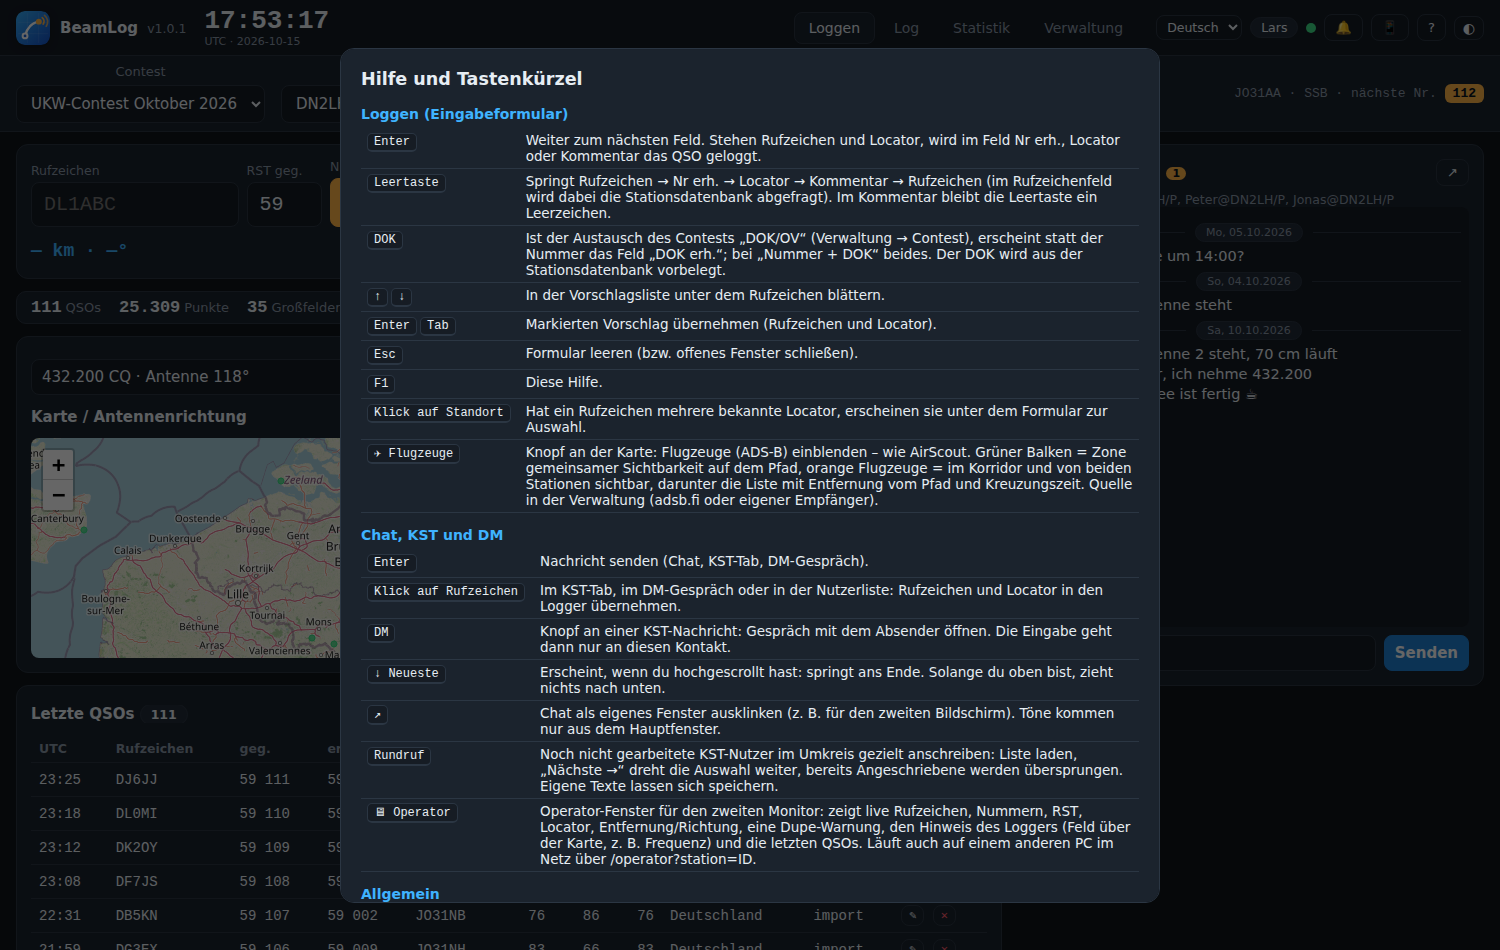
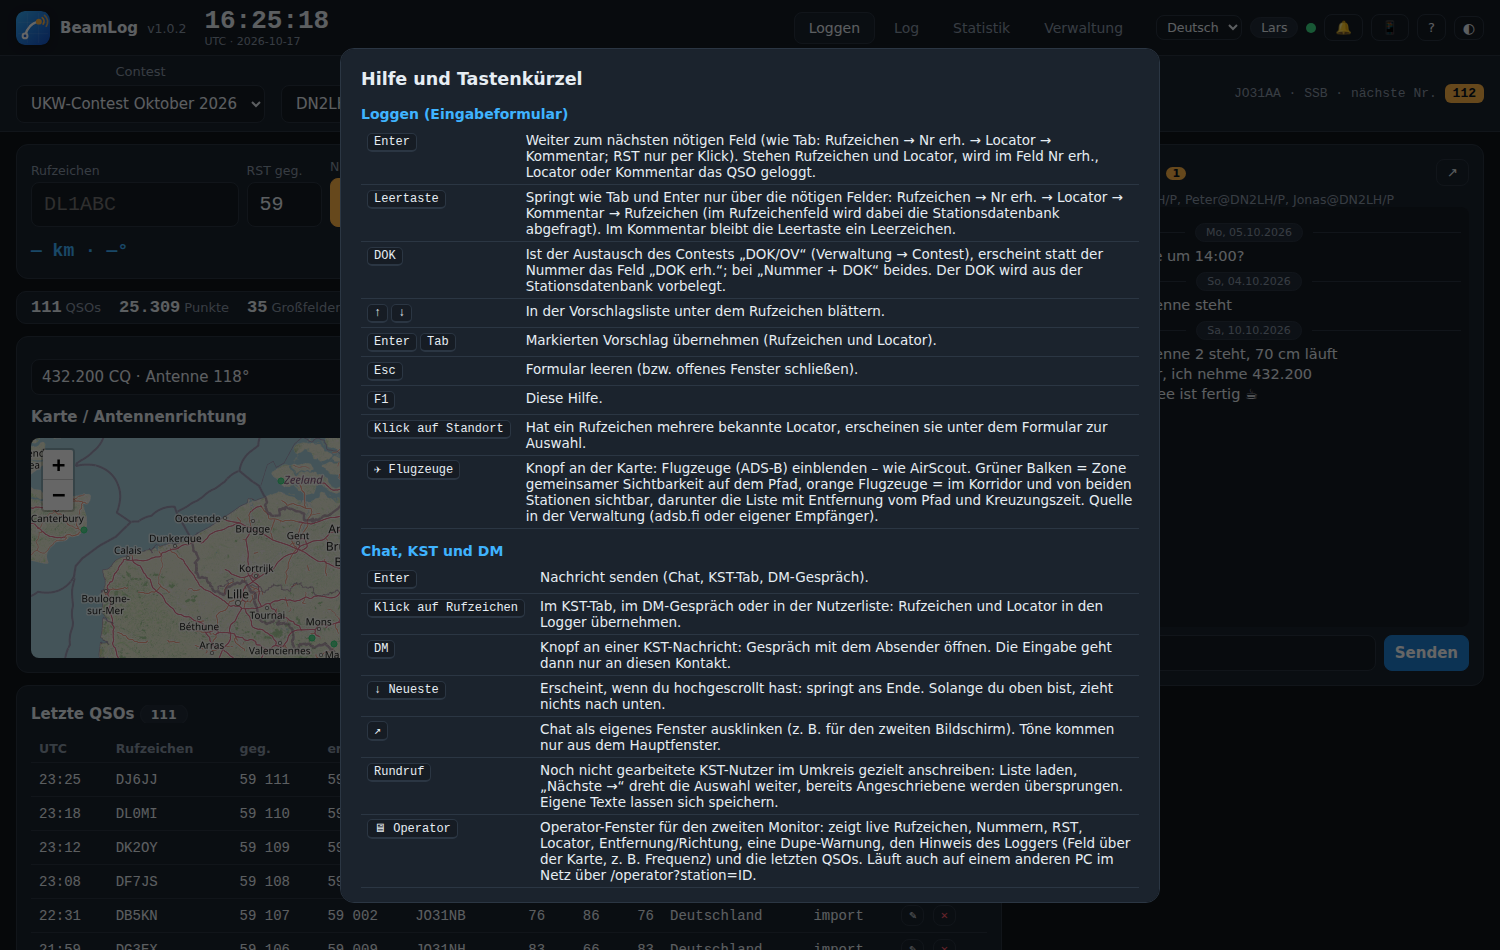
Schnellere Eingabe: Tab, Enter und Leertaste springen nur über die nötigen Felder
- Alle drei Tasten gehen denselben Weg: Rufzeichen → Nr erh. (→ DOK erh.) → Locator → Kommentar
- RST geg. und RST erh. (mit 59 vorbelegt) werden übersprungen und lassen sich per Mausklick ändern;
  Enter aus einem RST-Feld springt zu Nr erh. bzw. DOK erh.
- Enter mit leerem Rufzeichen läuft nicht mehr durch alle Felder; Umschalt+Tab geht den Weg zurück
- Gilt für alle Austausch-Arten (Nummer, DOK, Nummer + DOK)
- Hilfe (F1), README und Wiki (Loggen, Tastenkürzel) angepasst, Hilfe-Screenshot neu

diff --git a/contestlogger/static/app.js b/contestlogger/static/app.js
@@ -638,8 +638,12 @@
     }
   });
 
+  // Enter, Leertaste und Tab gehen nur über die nötigen Felder: Rufzeichen -> Nr erh. (-> DOK) -> Locator -> Kommentar;
+  // RST geg./erh. sind mit 59 vorbelegt und nur per Klick erreichbar (tabindex -1 im HTML).
+  const steps = () => [F.call, F.nr, F.dok, F.loc, F.cmt].filter((f) => !f.parentElement.classList.contains("hidden"));
+  function nextStep(inp) { const s = steps(); const i = s.indexOf(inp); return i < 0 ? firstRcvd() : s[i + 1] || F.call; }
   // Enter springt weiter; wenn Call + Locator vorhanden und man im letzten Pflichtfeld ist, wird geloggt.
-  order.forEach((inp, i) => {
+  order.forEach((inp) => {
     inp.addEventListener("keydown", (e) => {
       if (inp === F.call && !$("#suggest").classList.contains("hidden")) {
         if (e.key === "ArrowDown") { e.preventDefault(); moveSuggest(1); return; }
@@ -651,16 +655,13 @@
         const ready = F.call.value.trim().length >= 3 && F.loc.value.trim().length >= 4;
         const dokOk = !hasDok() || F.dok.value.trim() || inp === F.dok;
         if (ready && dokOk && (inp === F.loc || inp === F.cmt || inp === F.nr || inp === F.dok)) submitQso();
-        else if (inp === F.call && ready) firstRcvd().focus();
-        else { let n = order[i + 1]; while (n && n.parentElement.classList.contains("hidden")) n = order[order.indexOf(n) + 1]; (n || F.call).focus(); }
+        else nextStep(inp).focus();
       }
-      // Leertaste springt: Rufzeichen -> Nr erhalten (-> DOK) -> Locator -> Kommentar -> Rufzeichen
+      // Leertaste springt wie Enter und Tab nur über die nötigen Felder (im Kommentar bleibt sie ein Leerzeichen)
       if (e.key === " " && inp !== F.cmt) {
         e.preventDefault();
         if (inp === F.call) lookupCall();
-        const afterNr = hasDok() ? F.dok : F.loc;
-        const hop = { [F.call.id]: firstRcvd(), [F.rs.id]: firstRcvd(), [F.rr.id]: firstRcvd(), [F.nr.id]: afterNr, [F.dok.id]: F.loc, [F.loc.id]: F.cmt };
-        (hop[inp.id] || F.call).focus();
+        nextStep(inp).focus();
       }
     });
   });
@@ -897,8 +898,8 @@
     const P = (text) => el("p", { class: "muted small" }, text);
     const box = modal(el("div", { class: "help" }, el("h3", {}, t("Hilfe und Tastenkürzel")),
       ...H(t("Loggen (Eingabeformular)"),
-        K(["Enter"], t("Weiter zum nächsten Feld. Stehen Rufzeichen und Locator, wird im Feld Nr erh., Locator oder Kommentar das QSO geloggt.")),
-        K(["Leertaste"], t("Springt Rufzeichen → Nr erh. → Locator → Kommentar → Rufzeichen (im Rufzeichenfeld wird dabei die Stationsdatenbank abgefragt). Im Kommentar bleibt die Leertaste ein Leerzeichen.")),
+        K(["Enter"], t("Weiter zum nächsten nötigen Feld (wie Tab: Rufzeichen → Nr erh. → Locator → Kommentar; RST nur per Klick). Stehen Rufzeichen und Locator, wird im Feld Nr erh., Locator oder Kommentar das QSO geloggt.")),
+        K(["Leertaste"], t("Springt wie Tab und Enter nur über die nötigen Felder: Rufzeichen → Nr erh. → Locator → Kommentar → Rufzeichen (im Rufzeichenfeld wird dabei die Stationsdatenbank abgefragt). Im Kommentar bleibt die Leertaste ein Leerzeichen.")),
         K(["DOK"], t("Ist der Austausch des Contests „DOK/OV“ (Verwaltung → Contest), erscheint statt der Nummer das Feld „DOK erh.“; bei „Nummer + DOK“ beides. Der DOK wird aus der Stationsdatenbank vorbelegt.")),
         K(["↑", "↓"], t("In der Vorschlagsliste unter dem Rufzeichen blättern.")),
         K(["Enter", "Tab"], t("Markierten Vorschlag übernehmen (Rufzeichen und Locator).")),

diff --git a/contestlogger/static/index.html b/contestlogger/static/index.html
@@ -72,9 +72,9 @@
               <input id="f-call" placeholder="DL1ABC" spellcheck="false" required>
               <div id="suggest" class="suggest hidden"></div>
             </label>
-            <label class="f-rsts">RST geg.<input id="f-rst-sent" value="59"></label>
+            <label class="f-rsts" title="Mit 59 vorbelegt – Tab, Enter und Leertaste überspringen das Feld, ändern per Klick">RST geg.<input id="f-rst-sent" value="59" tabindex="-1"></label>
             <label class="f-nrs">Nr geg.<input id="f-nr-sent" readonly tabindex="-1"></label>
-            <label class="f-rstr">RST erh.<input id="f-rst-rcvd" value="59"></label>
+            <label class="f-rstr" title="Mit 59 vorbelegt – Tab, Enter und Leertaste überspringen das Feld, ändern per Klick">RST erh.<input id="f-rst-rcvd" value="59" tabindex="-1"></label>
             <label class="f-nrr">Nr erh.<input id="f-nr-rcvd" placeholder="001" inputmode="numeric"></label>
             <label class="f-dok hidden" title="DOK / Ortsverband der Gegenstation (Austausch dieses Contests)">DOK erh.<input id="f-dok" placeholder="G01" spellcheck="false" maxlength="8"></label>
             <label class="f-loc">Locator<input id="f-loc" placeholder="JO31AA" spellcheck="false" maxlength="8"></label>

diff --git a/docs/wiki/Loggen.md b/docs/wiki/Loggen.md
@@ -7,7 +7,7 @@
 | Feld | Hinweise |
 |---|---|
 | **Rufzeichen** | Wird automatisch in Großbuchstaben gesetzt. Beim Tippen erscheinen Vorschläge aus der Stationsdatenbank und allen eigenen Logs mit Locator, Entfernung, Richtung und „schon gearbeitet“-Hinweis. |
-| **RST geg. / RST erh.** | Vorbelegt mit 59 (bzw. 599 bei CW). |
+| **RST geg. / RST erh.** | Vorbelegt mit 59 (bzw. 599 bei CW). Tab, Enter und Leertaste überspringen die Felder – ändern per Mausklick. |
 | **Nr geg.** | Laufende Nummer, automatisch hochzählend, orange hervorgehoben. Rücksetzen über den Knopf „Nr. zurücksetzen“ oder in der Verwaltung. |
 | **Nr erh.** | Empfangene Nummer. |
 | **DOK erh.** | DOK/Ortsverband der Gegenstation – nur bei Contests mit Austausch „DOK/OV“ oder „Nummer + DOK“ (siehe unten). |
@@ -28,13 +28,17 @@ Was geloggt werden muss, legt der Contest fest (Verwaltung → Contest → **Aus
 
 ![Loggen mit DOK](img/loggen-dok.png)
 
-Der DOK wird aus der [Stationsdatenbank](Stationsdatenbank.md) vorbelegt (grün umrandet), sobald das Rufzeichen bekannt ist, und mit jedem QSO dort gelernt. Die Leertaste springt Rufzeichen → Nr erh. → DOK erh. → Locator; fehlt die Nummer im Contest, direkt zum DOK. Der eigene DOK steht bei der Station in den EDI-Angaben („Eigener DOK/OV bzw. Austausch“) und landet im EDI-Kopf als `PExch`; der empfangene DOK steht in der EDI-QSO-Zeile (Spalte „Exchange received“), im ADIF (`DARC_DOK`, `SRX_STRING`) und in der CSV. Die Statistikzeile zählt die verschiedenen DOKs, die Log-Prüfung warnt bei fehlendem DOK. Das Operator-Fenster zeigt das DOK-Feld statt bzw. neben den Nummern.
+Der DOK wird aus der [Stationsdatenbank](Stationsdatenbank.md) vorbelegt (grün umrandet), sobald das Rufzeichen bekannt ist, und mit jedem QSO dort gelernt. Tab, Enter und Leertaste springen Rufzeichen → Nr erh. → DOK erh. → Locator; fehlt die Nummer im Contest, direkt zum DOK. Der eigene DOK steht bei der Station in den EDI-Angaben („Eigener DOK/OV bzw. Austausch“) und landet im EDI-Kopf als `PExch`; der empfangene DOK steht in der EDI-QSO-Zeile (Spalte „Exchange received“), im ADIF (`DARC_DOK`, `SRX_STRING`) und in der CSV. Die Statistikzeile zählt die verschiedenen DOKs, die Log-Prüfung warnt bei fehlendem DOK. Das Operator-Fenster zeigt das DOK-Feld statt bzw. neben den Nummern.
 
 ## Ablauf mit der Tastatur
 
-- **Rufzeichen tippen → Leertaste** springt zu *Nr erh.*, gleichzeitig wird die Stationsdatenbank (und ggf. HamQTH/QRZ) abgefragt und der Locator vorbelegt.
+Tab, Enter und Leertaste gehen alle denselben kurzen Weg über die nötigen Felder: **Rufzeichen → Nr erh. (→ DOK erh.)
+→ Locator → Kommentar**. Die mit 59 vorbelegten RST-Felder werden übersprungen; wer einen anderen Rapport braucht,
+klickt hinein (Umschalt+Tab geht zurück).
+
+- **Rufzeichen tippen → Leertaste** (oder Tab/Enter) springt zu *Nr erh.*; mit der Leertaste wird gleichzeitig die Stationsdatenbank (und ggf. HamQTH/QRZ) abgefragt und der Locator vorbelegt.
 - **Nr erh. → Leertaste** springt zum Locator, **Locator → Leertaste** zum Kommentar.
-- **Enter** loggt, sobald Rufzeichen und Locator stehen (in *Nr erh.*, *Locator* oder *Kommentar*).
+- **Enter** loggt, sobald Rufzeichen und Locator stehen (in *Nr erh.*, *DOK erh.*, *Locator* oder *Kommentar*); sonst geht es ins nächste nötige Feld.
 - **Esc** leert das Formular.
 - Pfeiltasten blättern in den Vorschlägen, Enter/Tab übernimmt den markierten Vorschlag.
 

diff --git a/README.md b/README.md
@@ -41,7 +41,7 @@ Ein kleiner Server (portable Datei, kein Python nötig) ist der zentrale Speiche
 
 | | |
 |---|---|
-| **Loggen** | Rufzeichen, RST, Nummern und/oder DOK (Austausch je Contest wählbar, z. B. Köln-Aachen-Contest), Locator, Kommentar; Vorschläge aus der Stationsdatenbank und allen eigenen Logs; Locator, km und Grad automatisch; Dupe-Warnung; Plausibilitätsprüfung Rufzeichen ↔ Locator; Bearbeiten und Löschen; Zeit in UTC |
+| **Loggen** | Schnelle Eingabe nur mit der Tastatur (Tab, Enter und Leertaste springen nur über die nötigen Felder); Rufzeichen, RST, Nummern und/oder DOK (Austausch je Contest wählbar, z. B. Köln-Aachen-Contest), Locator, Kommentar; Vorschläge aus der Stationsdatenbank und allen eigenen Logs; Locator, km und Grad automatisch; Dupe-Warnung; Plausibilitätsprüfung Rufzeichen ↔ Locator; Bearbeiten und Löschen; Zeit in UTC |
 | **Stationen und Contests** | Globale Stationen mit Stammdaten (Passwort, KST-Zugang, EDI-Angaben), Contest anlegen mit Stationsauswahl, Operatoren schalten per Passwort frei |
 | **Chat, ON4KST, DM** | Team-Chat je Contest (wer ist online), KST-Chat je Station (Nutzerliste mit km und Richtung, Textbausteine, „an mich“-Markierung); ein Klick auf eine Station übernimmt Rufzeichen und Locator in den Logger; Direktnachrichten wie ein Messenger, Rundruf an noch nicht gearbeitete Stationen im Umkreis |
 | **Operator-Fenster** | Zweiter Monitor: live Rufzeichen, Nummern, RST, Locator, Entfernung/Richtung, Dupe-Warnung, Hinweis vom Logger, Statistik, Karte, letzte QSOs |

diff --git a/docs/wiki/Tastenkuerzel.md b/docs/wiki/Tastenkuerzel.md
@@ -8,8 +8,9 @@ Im Programm jederzeit mit **F1** oder dem „?“ im Kopf abrufbar.
 
 | Taste | Wirkung |
 |---|---|
-| **Enter** | Weiter zum nächsten Feld. Stehen Rufzeichen und Locator, wird in *Nr erh.*, *Locator* oder *Kommentar* das QSO geloggt. |
-| **Leertaste** | Springt Rufzeichen → Nr erh. → Locator → Kommentar → Rufzeichen. Im Rufzeichenfeld wird dabei die Stationsdatenbank abgefragt. Im Kommentar bleibt die Leertaste ein Leerzeichen. |
+| **Tab / Enter / Leertaste** | Springen nur über die nötigen Felder: Rufzeichen → Nr erh. (→ DOK erh.) → Locator → Kommentar. *RST geg.* und *RST erh.* (mit 59 vorbelegt) werden übersprungen – ändern per Mausklick; Umschalt+Tab geht zurück. |
+| **Enter** | Stehen Rufzeichen und Locator, wird in *Nr erh.*, *DOK erh.*, *Locator* oder *Kommentar* das QSO geloggt, sonst geht es ins nächste nötige Feld. |
+| **Leertaste** | Im Rufzeichenfeld wird dabei die Stationsdatenbank abgefragt (Locator wird vorbelegt). Im Kommentar bleibt die Leertaste ein Leerzeichen. |
 | **↑ / ↓** | In der Vorschlagsliste unter dem Rufzeichen blättern. |
 | **Enter / Tab** | Markierten Vorschlag übernehmen (Rufzeichen und Locator). |
 | **Esc** | Formular leeren bzw. offenes Fenster schließen. |
